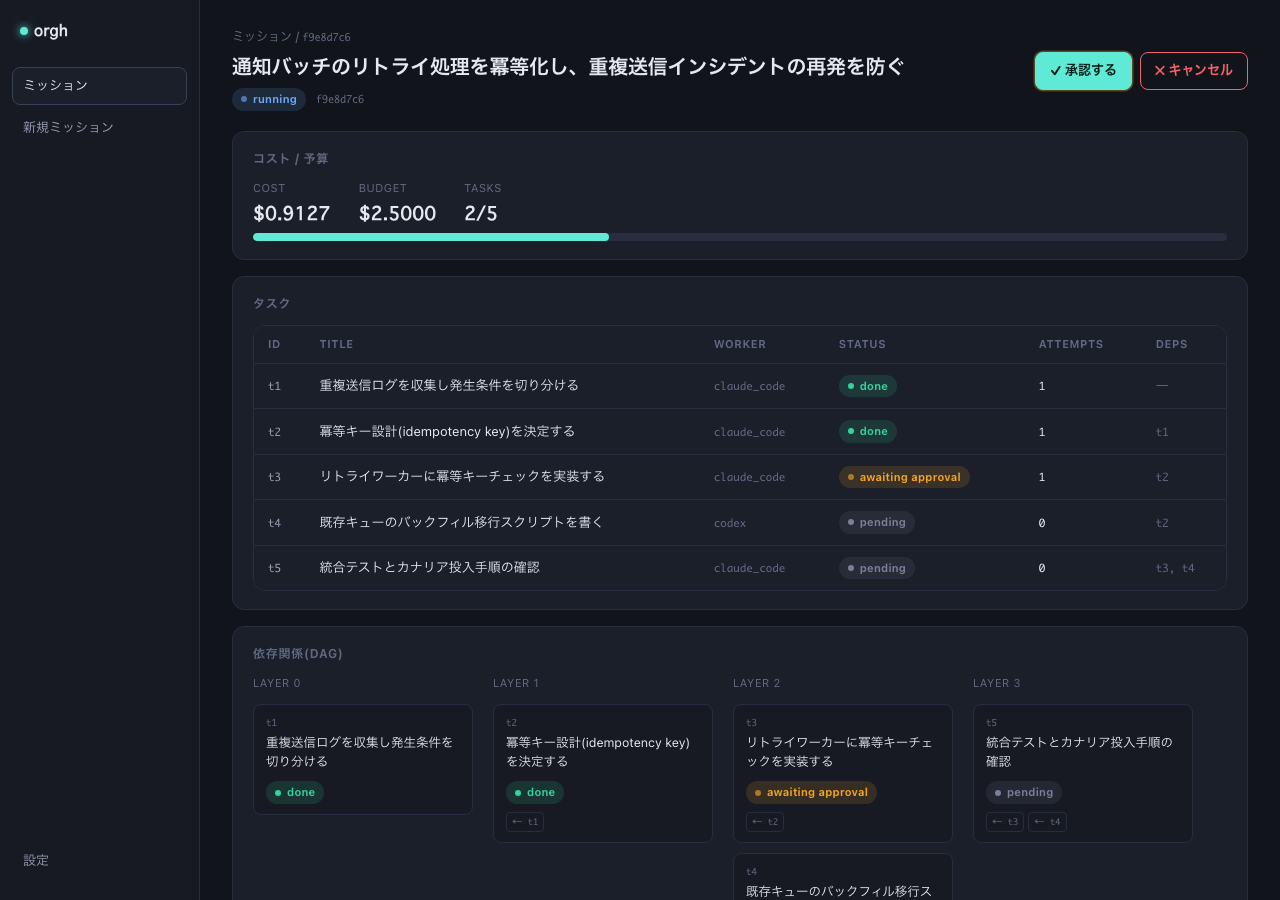
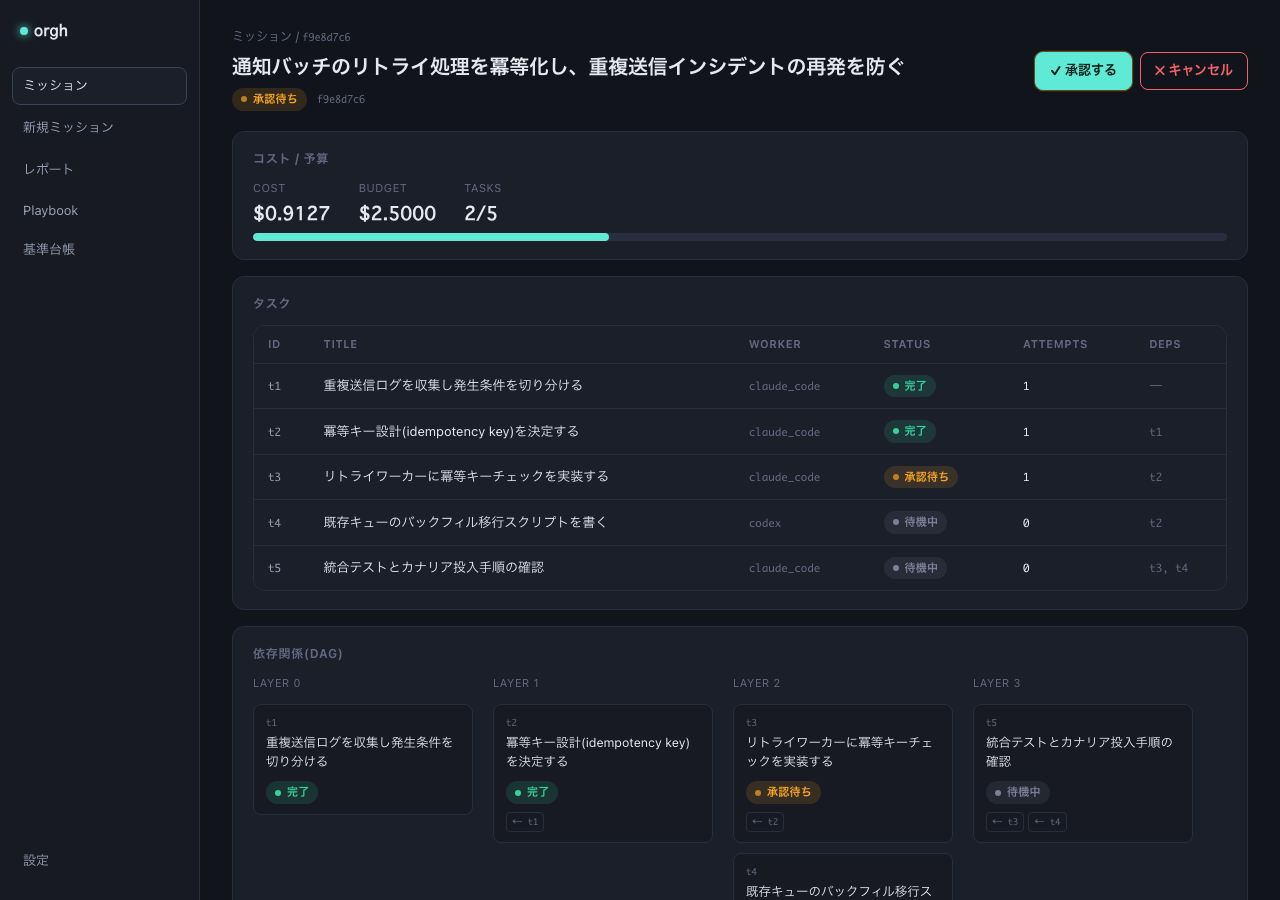
orgh(4892cfca/t5): 統合検証とドキュメント反映(全ゲート通過の確認記録)

diff --git a/desktop/src/pages/MissionDetailPage.tsx b/desktop/src/pages/MissionDetailPage.tsx
@@ -97,6 +97,14 @@ export function MissionDetailPage({
     setStatus(null);
     setLedgerLines([]);
     setLiveLines(getLiveLines(missionId));
+    // missionId切替時、前のミッションの検収裁定/人間報告のフォーム入力や
+    // 結果バナーが新しいミッションの画面に残留しないようリセットする
+    setVerdictPassed(null);
+    setVerdictReason("");
+    setVerdictResult(null);
+    setHumanNotes({});
+    setHumanResults({});
+    setHumanDetailsOpen({});
 
     let cancelled = false;
 

diff --git a/desktop/docs/VERIFY-PHASE3.md b/desktop/docs/VERIFY-PHASE3.md
@@ -1,0 +1,299 @@
+# orgh GUI第3期 — 統合検証記録(VERIFY-PHASE3.md)
+
+先行タスク群(mission 4892cfca: t1コアCLI後方互換JSON追加 / t2 Tauriブリッジ5コマンド
+契約確定 / t3 ミッション詳細ページへの検収裁定・人間依頼UI実装 / t4 基準台帳ページ新設)
+が「完了」と報告された状態で、本タスク(t5)がブランチ統合後(`ac432a6`)の実装を
+実際にコードを読んで確認し、機械検証・目視検証・回帰確認・ドキュメント反映を行った記録。
+
+検証環境: macOS(Darwin 24.5.0, arm64) / Node v24.7.0 / Python 3.14.6
+(`~/.orgh-venv/bin/python`。本worktree `.orgh-worktrees/4892cfca-t5` から実行すると
+`import orgh` が worktree 内の `orgh/__init__.py` を解決することを確認済み — 同venvの
+editable install先は別worktreeを指しているが、cwd優先でシャドウされるため問題ない)
+/ Rust `rustc 1.97.1` / `cargo 1.97.1`。
+
+---
+
+## 1. 実装の実在確認(報告を鵜呑みにしない)
+
+着手前に、報告された成果物を実際に読んで確認した。
+
+| 確認対象 | 結果 |
+|---|---|
+| `orgh/cli.py` の `verdict`/`humandone`/`criteria` サブコマンド | 実装あり(cli.py:231-324)。`humandone`は`planner.review()`を通常のworker成果と同じく通し、合格時のみ`run_mission()`で残タスク実行を継続する — 検収ゲートを迂回する代替経路になっていないことを確認 |
+| `desktop/src-tauri/src/lib.rs` の `invoke_handler` | `owner_verdict`/`criteria_list`/`criteria_approve`/`criteria_reject`/`human_done` の5コマンドすべて登録済み(lib.rs:11-27) |
+| `desktop/src-tauri/src/commands.rs` | 5コマンドの本体・`build_verdict_args`/`build_human_done_args`(先頭ハイフン注入対策の単体テスト付き)実装あり。コメントで「`spawn_and_bridge`/`ORGH_APPROVED=`確認行契約には一切手を入れない」ことを明記 |
+| `desktop/src/api.ts` | 5コマンドすべて `isTauriRuntime()` 分岐 + モックフォールバックまで実装済み(list_missions等の既存9コマンドと同一パターン) |
+| `desktop/src/mocks.ts` | `MOCK_CRITERIA` 定義あり。`humanDone`/`ownerVerdict`のモック実装が状態遷移(done化・verdicts追記)を模擬 |
+| `desktop/src/router.ts` / `App.tsx` | `criteria`ルートとサイドバー「基準台帳」ナビが実装され、実際に配線されている(画面だけ作ってルータ未接続、という欠落は無かった) |
+| `desktop/src/pages/MissionDetailPage.tsx` / `CriteriaPage.tsx` | `ownerVerdict`/`humanDone`/`criteriaList`/`criteriaApprove`/`criteriaReject` を実際に呼び出している |
+
+結論: 4機能(コアJSON・Tauriブリッジ・詳細ページUI・基準台帳ページ)は報告どおり
+実在し、主要な結線漏れ(画面はあるがルータ未接続、コマンドはあるがinvoke_handler未登録等)
+は見つからなかった。ただし2章・3章で述べる**新規の不具合を2件検出し、本タスクで修正した**。
+
+---
+
+## 2. 機械検証(3コマンド)
+
+すべて終了コード0で完了。
+
+### 2.1 `python -m pytest tests/ -q`
+
+裸の`python`が無いため`~/.orgh-venv/bin/python`をフルパスで実行(前期と同様)。
+
+```
+$ ~/.orgh-venv/bin/python -m pytest tests/ -q
+........................................................................ [ 22%]
+........................................................................ [ 45%]
+........................................................................ [ 67%]
+........................................................................ [ 90%]
+................................                                         [100%]
+320 passed in 19.58s
+```
+
+第2期時点(220件)からcriteria/verdict/humandone関連のCLIテストが追加され320件。
+既存分を含め失敗0件。
+
+### 2.2 `cd desktop/src-tauri && cargo test`
+
+```
+$ export PATH="$HOME/.cargo/bin:$PATH" && cd desktop/src-tauri && cargo test
+running 22 tests (lib)
+test cli::tests::falls_back_to_stderr_when_stdout_is_unparseable ... ok
+test cli::tests::parses_success_payload ... ok
+test cli::tests::falls_back_to_exit_status_message_when_no_stderr_and_empty_stdout ... ok
+test commands::tests::build_human_done_args_note_with_leading_hyphen_stays_one_token ... ok
+test commands::tests::build_human_done_args_basic ... ok
+test cli::tests::parses_error_object_on_failure ... ok
+test cli::tests::doctor_ok_false_still_parses_as_structured_report_despite_nonzero_exit ... ok
+test commands::tests::build_human_done_args_note_with_whitespace_and_newlines ... ok
+test commands::tests::build_run_args_rejects_both_none ... ok
+test commands::tests::build_run_args_rejects_both_some ... ok
+test commands::tests::build_run_args_uses_intent_flag ... ok
+test commands::tests::build_run_args_uses_note_flag ... ok
+test commands::tests::build_verdict_args_fail ... ok
+test commands::tests::build_verdict_args_pass ... ok
+test commands::tests::build_verdict_args_reason_with_leading_hyphen_stays_one_token ... ok
+test commands::tests::build_verdict_args_reason_with_whitespace_and_newlines ... ok
+test settings::tests::default_settings_match_cli_defaults ... ok
+test settings::tests::normalized_strips_surrounding_whitespace ... ok
+test settings::tests::settings_roundtrip_camel_case_json ... ok
+test settings::tests::validate_accepts_relative_command_names ... ok
+test settings::tests::validate_rejects_empty_fields ... ok
+test settings::tests::validate_rejects_missing_absolute_paths ... ok
+test result: ok. 22 passed; 0 failed; 0 ignored; 0 measured; 0 filtered out; finished in 0.00s
+
+running tests/orgh_cli_integration.rs (10 tests)
+test doctor_old_json_defaults_authentication_fields ... ok
+test resume_args_include_config_and_optional_retry_flag ... ok
+test mission_events_without_ledger_file_returns_empty_events ... ok
+test mission_events_parses_ledger_lines_including_unknown_fields ... ok
+test mission_events_for_missing_mission_dir_is_an_error ... ok
+test list_missions_parses_a_real_mission_json_fixture ... ok
+test list_missions_on_empty_runs_dir_returns_empty_array ... ok
+test doctor_real_invocation_parses_into_doctor_report ... ok
+test report_invokes_stub_with_days_and_parses_payload ... ok
+test playbooks_invokes_stub_and_parses_payload ... ok
+test result: ok. 10 passed; 0 failed; 0 ignored; 0 measured; 0 filtered out; finished in 0.41s
+```
+
+合計32件成功(lib 22件 + integration 10件)。`build_verdict_args`/`build_human_done_args`
+の先頭ハイフン・改行注入対策テストを含め全緑。
+
+### 2.3 `cd desktop && npm run build`
+
+`desktop/node_modules`が本worktreeに未導入だったため`npm install`(package-lock.jsonから
+の復元、128 packages、依存追加なし)を実施した後に実行。
+
+```
+$ npm run build
+> orgh-desktop@0.1.0 build
+> tsc && vite build
+
+vite v5.4.21 building for production...
+✓ 52 modules transformed.
+dist/index.html                   0.40 kB │ gzip:  0.27 kB
+dist/assets/index-*.css          10.08 kB │ gzip:  2.80 kB
+dist/assets/core-*.js             0.20 kB │ gzip:  0.15 kB
+dist/assets/event-*.js            1.15 kB │ gzip:  0.61 kB
+dist/assets/index-*.js          202.37 kB │ gzip: 64.53 kB
+✓ built in 311ms
+$ echo $?
+0
+```
+
+`tsc --noEmit`もエラー0件(ビルドコマンドの前段として実行され、後述のフロントエンド
+修正後も再実行して0件を確認)。
+
+**`package.json`/`package-lock.json`は無変更**(`npm install`は既存lockfileからの復元のみ):
+```
+$ git diff -- desktop/package.json desktop/package-lock.json
+(出力なし)
+```
+
+---
+
+## 3. モックモードでの実表示確認・不具合の発見と修正
+
+`VITE_MOCK=1 npm run dev`(http://localhost:1420)を起動し、Playwright(`npx`キャッシュに
+既存のplaywrightパッケージを`node_modules/playwright`へシンボリックリンクして使用 —
+`package.json`は変更していない。`node_modules`自体は`.gitignore`対象で追跡外)経由で
+実際にクリック・入力操作をしながら画面を辿った。
+
+### 3.1 発見した不具合1: 基準台帳の承認導線が実際には機能していなかった(既存スクショが撮影ミス)
+
+着手時点で`desktop/docs/screenshots/phase3/`には5枚のPNGが既にあったが、目視すると
+2件の問題があった:
+1. `criteria-drafts.png`と`criteria-ledger.png`が**完全に同一ファイル**(md5一致)で、
+   承認操作の前後差分を撮影できていなかった。
+2. `detail-verdict-form.png`等3枚は、サイドバーに「基準台帳」ナビ項目が無い
+   状態(t4マージ前)で撮影されたものだった。
+
+`desktop/scripts/shot.mjs`に基準台帳の2状態(下書き2件→1件目承認後1件)を実際に
+ボタンクリックして撮り分けるステップを追加し、全8枚(list/detail/new + phase3の5枚)を
+統合後の状態で再撮影した(4章参照)。
+
+### 3.2 発見した不具合2(コードの不具合・本タスクで修正): ミッション詳細ページ間のUI状態リーク
+
+Playwrightで「裁定を記録→別ミッションのURLへ直接遷移」を試したところ、遷移先の
+ミッション(未裁定・別のawaiting_humanミッション)に前のミッションの
+「検収裁定を記録しました」という成功バナーが残留して表示されることを発見した。
+
+原因: `desktop/src/pages/MissionDetailPage.tsx`の`missionId`変更時`useEffect`
+(96-143行目)が`status`/`ledgerLines`/`liveLines`はリセットしていたが、検収裁定
+フォーム(`verdictPassed`/`verdictReason`/`verdictResult`)と人間依頼フォーム
+(`humanNotes`/`humanResults`/`humanDetailsOpen`)のローカルstateをリセットしていな
+かった。React側は`<MissionDetailPage missionId={route.missionId} .../>`に`key`を
+渡していないため、ミッションを跨ぐ遷移時にコンポーネントがアンマウントされず
+stateが持ち越される。
+
+再現手順(Playwright, VITE_MOCK=1):
+1. `#/mission/b1c2d3e4`(done未裁定)を開き、合格を選択・理由入力・「裁定を記録」
+   をクリック → 「検収裁定を記録しました」バナーと裁定済みカードが表示される
+2. `window.location.hash`を`#/mission/d1e2f3a4`(awaiting_humanミッション、未裁定)
+   へ直接変更(URLバー遷移・ブラウザ戻る等でも同じ経路)
+3. **修正前**: 遷移先の画面にも「検収裁定を記録しました」バナーが残留して表示
+   された(このミッションでは裁定操作を一度も行っていないにもかかわらず)
+4. **修正後**: バナーは表示されない(`page.locator("text=検収裁定を記録しました").count()` が 0 を確認)
+
+修正: 同`useEffect`内に以下を追加(`desktop/src/pages/MissionDetailPage.tsx`):
+```ts
+setVerdictPassed(null);
+setVerdictReason("");
+setVerdictResult(null);
+setHumanNotes({});
+setHumanResults({});
+setHumanDetailsOpen({});
+```
+修正後、`npx tsc --noEmit`エラー0件・`npm run build`成功(2.3節)・pytestとcargo testは
+Rust/Python側に影響しないコード変更のため無変更のまま320件/32件成功を再確認済み。
+
+この不具合は今回のスコープ(検収裁定・人間依頼UI)に直接属する回帰であり、
+「画面はあるが未統合」という先行タスク報告の再検証という本タスクの主旨に沿って
+最小限の修正を行った。CLIコア(`orgh/`)・Tauriブリッジ(`.rs`)・`ORGH_APPROVED=`
+契約には一切手を入れていない。
+
+### 3.3 目視確認した画面・操作(スクリーンショット一覧)
+
+`desktop/docs/screenshots/phase3/`配下、修正後の統合状態で全て再撮影(5枚、
+いずれも10KB超)。
+
+| # | 画面 | 確認した操作 | ファイル |
+|---|---|---|---|
+| 1 | ミッション詳細(done・未裁定) | サイドバーに「基準台帳」を含む全6ナビ項目、検収裁定フォーム(合格/不合格ラジオ・理由欄・「裁定を記録」ボタン) | `detail-verdict-form.png` |
+| 2 | ミッション詳細(done・裁定済み) | 裁定記録カード(合格バッジ・日時・理由文)の表示 | `detail-verdict-recorded.png` |
+| 3 | ミッション詳細(awaiting_human) | 「人間対応が必要なタスク」ブロック、依頼理由・完了報告欄・「完了を報告」ボタン | `detail-human-request.png` |
+| 4 | 基準台帳(下書き2件) | `#/criteria`遷移、下書き2件(承認待ち)と本台帳(design 2件・process 1件)の表示 | `criteria-drafts.png` |
+| 5 | 基準台帳(承認後) | 1件目の「承認」ボタンを実際にクリックし、下書きが1件に減ることを確認(モック承認導線が実際に動作) | `criteria-ledger.png` |
+
+さらに、インタラクティブ操作(クリック・入力・送信)自体が正しく動くことも
+Playwrightで確認した(スクリーンショットは`/tmp`一時保存、リポジトリには含めていない):
+- 検収裁定フォームへの入力→送信→裁定記録カードへの反映(3.2節の再現手順1)
+- 人間依頼フォームへの入力→「完了を報告」送信→タスクが`done`化しミッション
+  全体が`完了`ステータスに遷移すること
+- 基準台帳の「承認」クリック→下書きが台帳から消えること(3.1節)
+
+### 3.4 既存画面の回帰確認
+
+一覧(`list.png`)・新規ミッション(`new.png`)は「基準台帳」ナビ追加後もレイアウト
+崩れなく表示されることを確認(再撮影済み)。設定画面(`#/settings`)もモックモードで
+正常表示を確認した。
+
+**既知の問題(本タスクのスコープ外・先行フェーズからの既存バグ)**: レポート画面
+(`#/report`)とPlaybook画面(`#/playbooks`)は、`VITE_MOCK=1`モードで開くと
+`TypeError: Cannot read properties of undefined (reading 'invoke')`で失敗する。
+原因は`ReportPage.tsx`/`PlaybooksPage.tsx`が`api.ts`のモック対応ラッパーを経由せず
+`@tauri-apps/api/core`の`invoke()`を直接呼んでいるため(`git log --follow`で
+コミット`541b4ed`/`fed2629`、mission `4d048081`(第2期)時点から存在する既存コード
+と確認 — 本タスク`4892cfca`が壊したものではない)。第2期の検証記録
+(`VERIFY-PHASE2.md`)はこの2画面を`VITE_MOCK`ではなくPlaywrightで
+`window.__TAURI_INTERNALS__`を注入するシム方式で確認しており、素の`VITE_MOCK`
+モードでは元々未検証だった経路だと考えられる。今回のスコープ(検収裁定・
+基準台帳・人間依頼)には無関係のため本タスクでは修正していないが、次期で
+`ReportPage`/`PlaybooksPage`も`api.ts`経由(`report()`/`playbooks()`)へ揃え、
+`mocks.ts`に`MOCK_REPORT`/`MOCK_PLAYBOOKS`相当を追加することを推奨する。
+
+### 3.5 `ORGH_APPROVED=`確認行契約の非破壊確認
+
+```
+$ grep -rn 'ORGH_APPROVED=' desktop/src-tauri/src orgh/
+desktop/src-tauri/src/commands.rs:102:        cli::spawn_and_bridge(app, bin, args, Some(mission_id), "ORGH_APPROVED=").map(|_| ())
+desktop/src-tauri/src/commands.rs:133:// owner_verdict/criteria_*/human_doneは確認行の待受(ORGH_APPROVED=等)を...
+desktop/src-tauri/src/cli.rs:96:/// `confirm_prefix`(approve: `ORGH_APPROVED=` / resume: `ORGH_RESUMED=`)の...
+desktop/src-tauri/src/cli.rs:178:    // stdout: 確定行(start: ORGH_MISSION_ID= / approve: ORGH_APPROVED=)を検出し、...
+orgh/cli.py:374:        # (ORGH_APPROVED=)より必ず前に出す
+orgh/cli.py:395:        print(f"ORGH_APPROVED={mission.id}", flush=True)
+orgh/status_json.py:41:    `ORGH_APPROVED=`で始まる行を偽造されてしまう(cli.rsのstrip_prefix検知が...
+```
+
+`approve_mission`(commands.rs:102)は従来どおり`spawn_and_bridge`+`ORGH_APPROVED=`
+確認行方式のまま。新規5コマンド(`owner_verdict`/`criteria_*`/`human_done`)は
+コメント(commands.rs:133-135)で明示されているとおり、この契約に一切触れない
+別経路(`cli::run_sync`/`cli::run_json`、確認行を持たない同期コマンド)を使う。
+`status_json.py`の改行注入対策(タイトル中の偽装`ORGH_APPROVED=`行をスペースへ
+畳む処理)もそのまま残っている。契約に変更なし。
+
+---
+
+## 4. スクリーンショット差分表(統合前後)
+
+| ファイル | 統合前(着手時点) | 統合後(本タスクで再撮影) |
+|---|---|---|
+| `phase3/detail-verdict-form.png` | サイドバーに「基準台帳」ナビ無し(t4マージ前の状態で撮影) | 全6ナビ項目(基準台帳含む)表示、内容は同一操作 |
+| `phase3/detail-verdict-recorded.png` | 同上 | 同上 |
+| `phase3/detail-human-request.png` | 同上 | 同上 |
+| `phase3/criteria-drafts.png` | `criteria-ledger.png`と完全同一ファイル(撮り分け失敗) | 下書き2件の初期状態を正しく撮影(読み込み完了後) |
+| `phase3/criteria-ledger.png` | 同上(重複) | 実際に「承認」をクリックした後、下書き1件に減った状態を撮影 |
+| `screenshots/list.png`/`new.png`/`detail.png` | 「基準台帳」ナビ無しの旧版 | 統合後の全ナビ項目入りで再撮影(回帰無しの確認を兼ねる) |
+| `desktop/src/pages/MissionDetailPage.tsx` | ミッション間遷移でverdict/human関連stateが残留(3.2節) | `useEffect`にリセット処理を追加、残留を解消 |
+| `desktop/scripts/shot.mjs` | 基準台帳の撮影ステップが無かった(手動撮影で重複ミスが発生した推定原因) | 承認操作を伴う2状態の自動撮影ステップを追加 |
+
+---
+
+## 5. ドキュメント反映
+
+- `README.md`「デスクトップアプリ」節に、検収裁定・人間依頼・基準台帳の3機能の説明と、
+  `VERIFY-PHASE2.md`/`VERIFY-PHASE3.md`へのリンクを追加した。
+- `desktop/API.md`は§1.8〜1.10(verdict/criteria/humandone)・Tauriコマンド表
+  (§2)・§2.1(確認行契約の対象外である旨)に、5コマンドの契約が**既に**t2の
+  契約確定タスクによって記述済みであることを確認した。ファイル所有権規約
+  (API.md冒頭「後続タスクは編集禁止」)に従い、内容が実装と一致していることを
+  確認した上で追記はしていない(既に正確なため)。
+
+---
+
+## 6. 残課題
+
+正直に列挙する。「無し」ではない。
+
+1. **レポート/Playbook画面が`VITE_MOCK=1`単体では動かない**(3.4節)。本タスクの
+   スコープ外の既存バグ(mission 4d048081由来)。次期で`api.ts`経由に揃えることを推奨。
+2. **実アプリ(.app)でのネイティブスクリーンショットは本実行環境では取得不可**
+   (screencapture権限の制約、第1期・第2期から継続する既知の環境制約)。本タスクも
+   前期同様Playwright経由のブラウザ再現で代替した。
+3. **`基準台帳`ページからミッション詳細への逆導線、またはミッション詳細から
+   基準台帳への直接リンクは無い**(サイドバーナビ経由のみ)。PRD側の受け入れ基準に
+   個別導線の明記が無いため未対応のままだが、UX改善の余地として記録する。
+4. `criteria-ledger.png`は「1件目の下書きを承認した直後」の状態であり、2件目
+   (「破壊的操作は人間対応へ委譲」)の下書きは意図的にモックデータとして
+   残したまま撮影している(承認導線が実際に機能することを差分で示すため)。

diff --git a/README.md b/README.md
@@ -235,11 +235,18 @@ pytest tests/
 `orgh`本体は今まで通りCLIとして使える(下記「使い方」節はそのまま有効)。
 `desktop/`には、同じ`orgh`をサブプロセスとして呼び出すTauri v2製のGUIラッパー
 「orgh Desktop」がある — **CLIを置き換えるものではなく、その派生**。ミッション一覧・
-詳細(タスク表・コスト・依存関係DAG)・新規ミッション起動・ライブログ表示をGUIで行える。
+詳細(タスク表・コスト・依存関係DAG)・新規ミッション起動・ライブログ表示・
+レポート・Playbook閲覧に加え、オーナー運用向けに以下3画面/機能をGUIで行える:
+
+- **検収裁定**(ミッション詳細画面): `done`ミッションを合格/不合格で裁定し、理由を記録する(`orgh verdict`)。裁定は判断基準台帳の下書きを自動生成する。
+- **人間依頼**(ミッション詳細画面): `awaiting_human`タスクに対し、人間が対応した完了報告をGUIから送信できる(`orgh humandone`)。通常のworker成果と同じくReviewerに掛かる。
+- **基準台帳**(`#/criteria`画面): 判断基準の下書き一覧の承認/棄却と、承認済み本台帳の閲覧(`orgh criteria list/approve/reject`)。
 
 CLI(`orgh/`)⇔Rustブリッジ(`desktop/src-tauri/`)⇔React UI(`desktop/src/`)の
 連携契約は [`desktop/API.md`](desktop/API.md) と [`desktop/src/types.ts`](desktop/src/types.ts)
-がSSOT。実データでの結線・実起動検証の記録は [`desktop/docs/VERIFY.md`](desktop/docs/VERIFY.md)。
+がSSOT。実データでの結線・実起動検証の記録は [`desktop/docs/VERIFY.md`](desktop/docs/VERIFY.md)
+(第1期)・[`desktop/docs/VERIFY-PHASE2.md`](desktop/docs/VERIFY-PHASE2.md)(第2期)・
+[`desktop/docs/VERIFY-PHASE3.md`](desktop/docs/VERIFY-PHASE3.md)(第3期・検収裁定/基準台帳/人間依頼)。
 
 ![orgh Desktop — ミッション詳細画面(実データ)](desktop/docs/screenshots/app-running.png)
 
